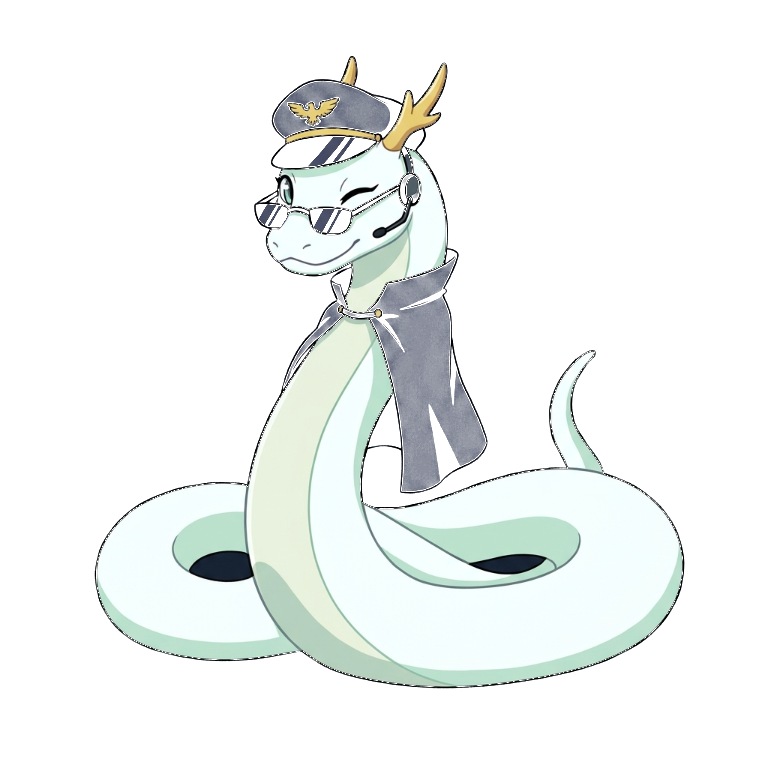
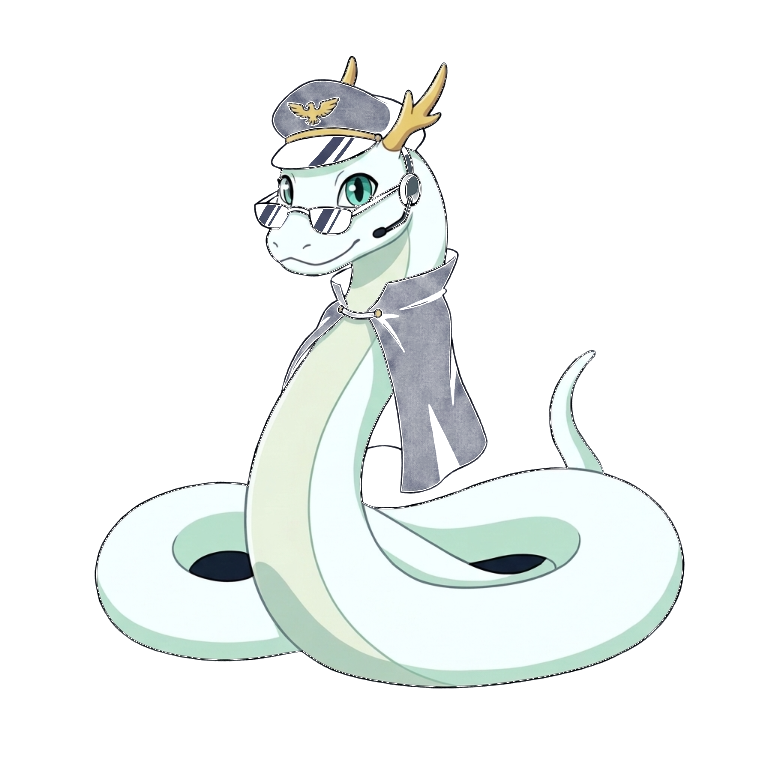
司令を両目が開いた絵にし、見回す動きを作り直す
ずっとウインクしていた絵を、目以外は同じで両目を開けた絵に描き直した（ウインクはときどきする動きに）。まばたきは両目。見回すは首を振って頭を左右に動かし、顔の向きも変える

diff --git a/bossgl.js b/bossgl.js
@@ -6,16 +6,17 @@
    座標は boss.png（768×768）の画素。 */
 var BossGL=(function(){
   var S=768, N=72, C0=[76,40], CS=640; // 絵のまわりの余白を切りつめて表示する範囲（左上と一辺）
-  var EYE=[289,189];
+  // 目: [中心x, 中心y, 横の半径, 縦の半径]。大きい方（右）と、サングラスのふちの小さい方（左）
+  var EYES=[[357,192,17,18],[286,191,7,14]], HEADC=[335,215];
   // 口: 絵の口の線（左＝鼻先側から右＝口角）と、あごの付け根。話すとあごを付け根のまわりに下へ回して開く
-  var LIP=[[278,259],[292,263],[306,264],[322,262],[338,258],[352,254]], HINGE=[356,256], mouth=0;
+  var LIP=[[282,258],[296,262],[310,263],[324,259],[338,253],[350,247]], HINGE=[356,248], mouth=0;
   function lipY(x){ for(var k=0;k<LIP.length-1;k++) if(x<=LIP[k+1][0]) return LIP[k][1]+(LIP[k+1][1]-LIP[k][1])*Math.max(0,(x-LIP[k][0])/(LIP[k+1][0]-LIP[k][0])); return LIP[LIP.length-1][1]; }
   function jawW(x){ return sm(256,270,x)*(1-sm(346,360,x)); }
   function jawAt(x,y,a){ var dx=x-HINGE[0], dy=y-HINGE[1], c=Math.cos(a), s=Math.sin(a); return [HINGE[0]+dx*c-dy*s, HINGE[1]+dx*s+dy*c]; }
   // 背骨: 首（とぐろの手前から頭のてっぺんまで）としっぽの先。この線に関節を並べて曲げる
   var NECK=[[300,500],[302,432],[330,372],[358,318],[352,262],[330,190]];
   var TAILJ=[[592,500],[568,445],[572,400],[588,352]];
-  var gl, prog, buf, uvBuf, idx, nIdx, cv, fx, g2, img, skin='#EAF4F0', ok=false, t0=performance.now(), last=0, blinkAt=0;
+  var gl, prog, buf, uvBuf, idx, nIdx, cv, fx, g2, img, skinAt=['#EAF4F0','#EAF4F0'], ok=false, t0=performance.now(), last=0, blinkAt=0;
   function sm(a,b,x){ var t=Math.max(0,Math.min(1,(x-a)/(b-a))); return t*t*(3-2*t); }
   function bell(u){ return Math.sin(Math.PI*Math.max(0,Math.min(1,u))); }
   function ease(u){ u=Math.max(0,Math.min(1,u)); return u*u*(3-2*u); }
@@ -58,7 +59,13 @@ var BossGL=(function(){
      nk=首の関節ごとの曲げ（−で頭が前＝左へ） len=首の伸び tl=しっぽの振り jy=跳ね sq=着地のつぶれ
      wx,wy=絵全体の移動（絵の大きさに対する割合） ws=拡大 */
   var ACTS={
-    look:{d:3.2,f:function(u){ var k=Math.sin(u*Math.PI*2)*bell(u); return {nk:[0,0,0.05*k,0.1*k,0.2*k]}; }},
+    // 見回す: 首を振って頭を左へ、次に右へ。顔の向きも変える（yaw: −で左向き、＋で右＝こちら向き）
+    look:{d:4.4,f:function(u){
+      var s=u<0.42?-seg(u,0.02,0.18):u<0.85?-1+2*seg(u,0.42,0.6):1-seg(u,0.85,1);
+      return {yaw:s, nk:[0,0.09*s,0.07*s,-0.03*s,-0.05*s]};
+    }},
+    // ウインク（大きい方の目）
+    wink:{d:0.9,f:function(u){ return {wink:bell(seg(u,0.05,0.95)), nk:[0,0,0,0.03*bell(u),0.05*bell(u)]}; }},
     bow:{d:1.8,f:function(u){ var b=bell(u)*bell(u); return {nk:[0,0,-0.08*b,-0.14*b,-0.2*b]}; }},
     stretch:{d:2.4,f:function(u){ var b=bell(u); return {len:1+0.12*b, nk:[0,0.03*b,-0.02*b,0.04*b,0.06*b]}; }},
     hop:{d:1.1,f:function(u){ var air=bell(seg(u,0.15,0.75)), crouch=u<0.15?bell(u/0.15):0, land=u>0.75?bell((u-0.75)/0.25):0;
@@ -113,6 +120,11 @@ var BossGL=(function(){
     var p=[x,y];
     if(b) p=b.c==='n'?onChain(NECK,NC,b,x,y):onChain(TAILJ,TC,b,x,y);
     x=p[0]; y=p[1];
+    // 顔の向き: 頭の部分だけ、向いた側へ寄せて、反対側を少し縮める
+    if(A.yaw && b && b.c==='n' && b.s>0.7){
+      var hw=sm(0.7,0.85,b.s), hc=onChain(NECK,NC,HB,HEADC[0],HEADC[1]), dxh=x-hc[0], yw=A.yaw;
+      x=hc[0]+dxh*(1-0.16*Math.abs(yw)*hw)+yw*20*hw*(1-Math.min(1,Math.abs(dxh)/90));
+    }
     // マントの裾は少しなびく
     if(b&&b.c==='n'&&x>370&&y>330) x+=4*sm(330,480,y)*Math.sin(t*1.9+y*0.02);
     // 息と着地のつぶれ（とぐろの底を基準に）
@@ -120,7 +132,7 @@ var BossGL=(function(){
     x=384+(x-384)*(1+0.004*br+sq*0.6); y=700+(y-700)*(1+0.011*br-sq)+(A.jy||0);
     return [x,y];
   }
-  var BIND=null;
+  var BIND=null, HB=null;
   function shader(type,src){ var s=gl.createShader(type); gl.shaderSource(s,src); gl.compileShader(s); return s; }
   function init(canvas,overlay){
     cv=canvas; fx=overlay; g2=fx.getContext('2d');
@@ -145,8 +157,9 @@ var BossGL=(function(){
       gl.texParameteri(gl.TEXTURE_2D,gl.TEXTURE_MIN_FILTER,gl.LINEAR); gl.texParameteri(gl.TEXTURE_2D,gl.TEXTURE_MAG_FILTER,gl.LINEAR);
       gl.texParameteri(gl.TEXTURE_2D,gl.TEXTURE_WRAP_S,gl.CLAMP_TO_EDGE); gl.texParameteri(gl.TEXTURE_2D,gl.TEXTURE_WRAP_T,gl.CLAMP_TO_EDGE);
       gl.enable(gl.BLEND); gl.blendFunc(gl.ONE,gl.ONE_MINUS_SRC_ALPHA);
-      // まぶたの色は、目の上の肌の色をそのまま使う
-      try{ var c=document.createElement('canvas'); c.width=c.height=S; var x=c.getContext('2d'); x.drawImage(img,0,0); var d=x.getImageData(EYE[0],EYE[1]-20,1,1).data; skin='rgb('+d[0]+','+d[1]+','+d[2]+')'; }catch(e){}
+      // まぶたの色は、目のすぐ横の肌の色をそのまま使う
+      try{ var c=document.createElement('canvas'); c.width=c.height=S; var x=c.getContext('2d'); x.drawImage(img,0,0);
+        EYES.forEach(function(e,i){ var d=x.getImageData(e[0]-e[2]-3,e[1],1,1).data; skinAt[i]='rgb('+d[0]+','+d[1]+','+d[2]+')'; }); }catch(e){}
       ok=true; requestAnimationFrame(frame);
     };
     img.src='boss.png';
@@ -165,13 +178,14 @@ var BossGL=(function(){
     // ときどき（20〜45秒おき）大きく動く。話している間は、見回しと会釈だけ
     // 画面の外まで出る大きな動きは、黙っているときに1〜2分に1回
     if(!act && !awayTo && talk<0.05 && t>nextBig){ var bp=['peek','dive','close','leap']; doAct(bp[Math.floor(Math.random()*bp.length)]); nextBig=t+60+Math.random()*60; nextIdle=Math.max(nextIdle,t+12); }
-    if(!act && t>nextIdle){ var pick=talk>0.05?['look','bow']:['look','bow','stretch','hop','wag','look']; doAct(pick[Math.floor(Math.random()*pick.length)]); nextIdle=t+20+Math.random()*25; }
+    if(!act && t>nextIdle){ var pick=talk>0.05?['look','bow','wink']:['look','bow','stretch','hop','wag','look','wink']; doAct(pick[Math.floor(Math.random()*pick.length)]); nextIdle=t+20+Math.random()*25; }
     var A={}; if(act){ var u=(now-actAt)/1000/act.d; if(u>=1) act=null; else A=act.f(u); }
     var dt=Math.min(0.2,(now-(frame.prev||now))/1000); frame.prev=now;
     away+=(awayTo-away)*Math.min(1,dt*2.2); if(Math.abs(awayTo-away)<0.002) away=awayTo; // 1.5秒ほどで去る／現れる
     var wx=(A.wx||0)+away*1.4, wy=A.wy||0, ws=A.ws||1;
     cv.parentNode.style.transform=(wx||wy||ws!==1)?'translate('+(wx*100).toFixed(1)+'%,'+(wy*100).toFixed(1)+'%) scale('+ws.toFixed(3)+')':'';
     cur=A; pose(t,talk>0.05?1:0,A);
+    if(!HB) HB=bind(HEADC[0],HEADC[1]);
     if(!BIND){ BIND=[]; for(var jj=0;jj<=N;jj++) for(var ii=0;ii<=N;ii++) BIND.push(bind(ii*S/N,jj*S/N)); }
     for(var j=0,q=0;j<=N;j++) for(var i=0;i<=N;i++,q++){ var p=deform(i*S/N,j*S/N,t,A,BIND[q]); pos.push(p[0],p[1]); }
     gl.viewport(0,0,cv.width,cv.height); gl.clearColor(0,0,0,0); gl.clear(gl.COLOR_BUFFER_BIT);
@@ -197,18 +211,22 @@ var BossGL=(function(){
       g2.beginPath(); lo.forEach(function(p,i){ i?g2.lineTo(p[0],p[1]):g2.moveTo(p[0],p[1]); }); g2.stroke();
       g2.beginPath(); up.forEach(function(p,i){ i?g2.lineTo(p[0],p[1]):g2.moveTo(p[0],p[1]); }); g2.stroke();
     }
-    // まばたき: 2.5〜6秒おきに0.14秒
+    // まばたき（両目）とウインク（大きい方の目）。2.5〜6秒おきに0.14秒
     var now=t*1000; if(now>blinkAt+140 && Math.random()<0.012) blinkAt=now;
-    var bk=now-blinkAt; if(bk<140){
-      var f=Math.sin(Math.PI*bk/140), E=deform(EYE[0],EYE[1],t,cur);
-      g2.save(); g2.beginPath(); g2.ellipse(E[0],E[1],11,15,-0.2,0,7); g2.clip();
-      g2.fillStyle=skin; g2.fillRect(E[0]-12,E[1]-16,24,32*f);
-      g2.strokeStyle='#1B1611'; g2.lineWidth=2.2; g2.beginPath(); g2.moveTo(E[0]-10,E[1]-16+30*f); g2.quadraticCurveTo(E[0],E[1]-12+32*f,E[0]+10,E[1]-16+30*f); g2.stroke(); g2.restore();
-    }
+    var bk=now-blinkAt, f=bk<140?Math.sin(Math.PI*bk/140):0;
+    EYES.forEach(function(e,i){
+      var c=Math.max(f, i===0?(cur.wink||0):0); if(c<0.02) return;
+      var E=deform(e[0],e[1],t,cur), rx=e[2]+2, ry=e[3]+2;
+      g2.save(); g2.beginPath(); g2.ellipse(E[0],E[1],rx,ry,0,0,7); g2.clip();
+      g2.fillStyle=skinAt[i]; g2.fillRect(E[0]-rx,E[1]-ry,rx*2,ry*2*c);
+      g2.strokeStyle='#1B1611'; g2.lineWidth=2.4; g2.lineCap='round'; var ly=E[1]-ry+ry*2*c;
+      g2.beginPath(); g2.moveTo(E[0]-rx+1,ly-2*c); g2.quadraticCurveTo(E[0],ly+4*c,E[0]+rx-1,ly-2*c); g2.stroke(); g2.restore();
+    });
   }
   // 確認用: 指定した動きの、指定した瞬間を1コマ描く（{wx,wy,ws} を返す）
   function snap(name,u,t,m){
     var A=name?ACTS[name].f(u):{}; t=t||0; cur=A; mouth=m||0; size(); pose(t,mouth>0.05?1:0,A);
+    if(!HB) HB=bind(HEADC[0],HEADC[1]);
     if(!BIND){ BIND=[]; for(var jj=0;jj<=N;jj++) for(var ii=0;ii<=N;ii++) BIND.push(bind(ii*S/N,jj*S/N)); }
     var pos=[]; for(var j=0,q=0;j<=N;j++) for(var i=0;i<=N;i++,q++){ var p=deform(i*S/N,j*S/N,t,A,BIND[q]); pos.push(p[0],p[1]); }
     gl.viewport(0,0,cv.width,cv.height); gl.clearColor(0,0,0,0); gl.clear(gl.COLOR_BUFFER_BIT);

diff --git a/boss-preview.html b/boss-preview.html
@@ -28,7 +28,7 @@ h1{font-size:17px;margin:0 0 4px;color:var(--gold)}
   <button data-a="look">見回す</button><button data-a="bow">会釈</button><button data-a="stretch">のび</button>
   <button data-a="hop">跳ねる</button><button data-a="wag">しっぽ</button><button data-a="startle">びくっ</button>
   <button data-a="peek">去って、のぞく</button><button data-a="dive">潜って、出る</button><button data-a="close">顔を近づける</button>
-  <button data-a="leap">大ジャンプ</button><button id="away">いなくなる</button><button id="back">戻ってくる</button>
+  <button data-a="leap">大ジャンプ</button><button data-a="wink">ウインク</button><button id="away">いなくなる</button><button id="back" class="">戻ってくる</button>
 </div>
 <p class="small">声：VOICEVOX:波音リツ</p>
 <script src="bossgl.js"></script>

diff --git a/sw.js b/sw.js
@@ -1,5 +1,5 @@
 // Offline cache for the app shell (mountain areas may have weak signal).
-const CACHE = 'mythops-v13';
+const CACHE = 'mythops-v14';
 const VOICE_CACHE = 'mythops-voice';
 const FILM_CACHE = 'mythops-film'; // 作戦映像（ページが保存する）
 const SHELL = ['./', './index.html', './story.js', './route.js', './site.js', './plot.js', './bossgl.js', './boss.png', './app.js', './fx.js', './manifest.webmanifest', './icon-192.png', './icon-512.png', './icon-180.png'];

diff --git a/tools/boss/cutout.html b/tools/boss/cutout.html
@@ -25,5 +25,5 @@ img.onload = async () => {
   await fetch('/out/boss.png', { method: 'POST', body: b });
   document.title = 'done';
 };
-img.src = 'C.png';
+img.src = new URLSearchParams(location.search).get('src') || 'C.png';
 </script>
